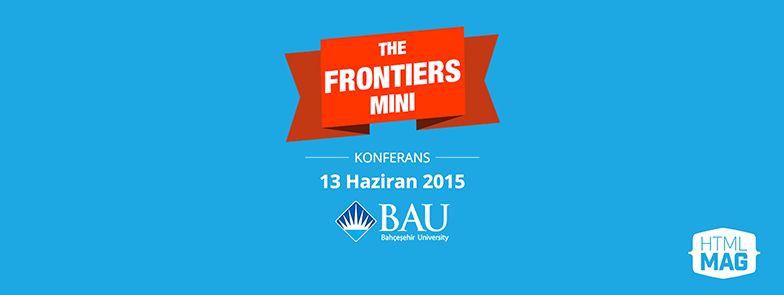
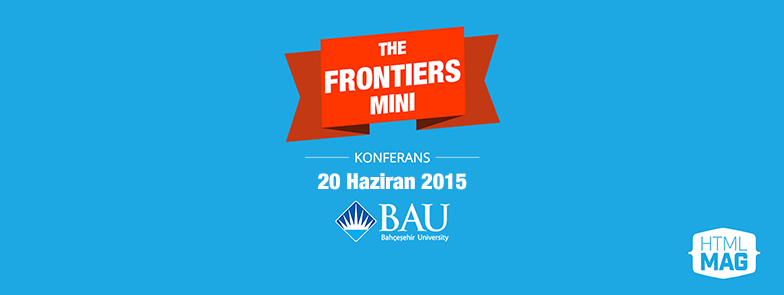
Change: New event date

Changed region(s): [[0.398, 0.5797, 0.6122, 0.6407]]

diff --git a/_posts/_events/the-frontiers-mini.md b/_posts/_events/the-frontiers-mini.md
@@ -22,7 +22,7 @@ og_image: /app/assets/images/frontiers-cover.png
     <div class="event-spot-content">
         <h2 class="event-spot-title">The Frontiers:Mini</h2>
         <span class="event-separate">KONFERANS</span>
-        <span class="event-date">13 Haziran 2015</span>
+        <span class="event-date">20 Haziran 2015</span>
         <img src="../content/2015/bau.png" />        
         <a href="http://www.eventbrite.com/e/the-frontiersmini-tickets-16922129545" class="register-now external" target="_blank">Hemen Kayıt Ol</a>
     </div>
